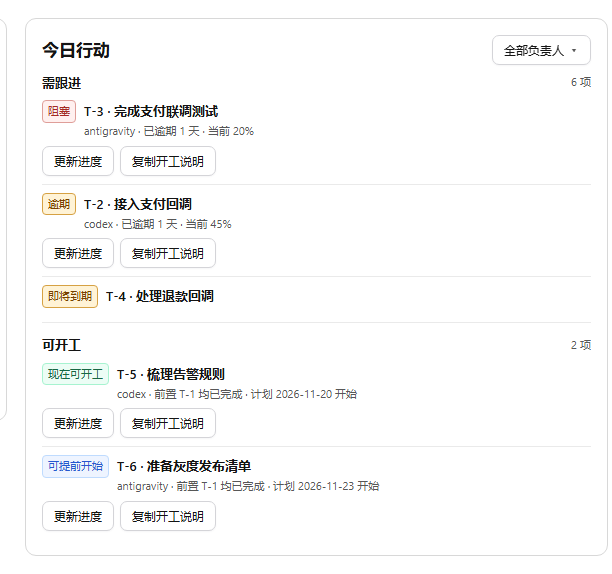
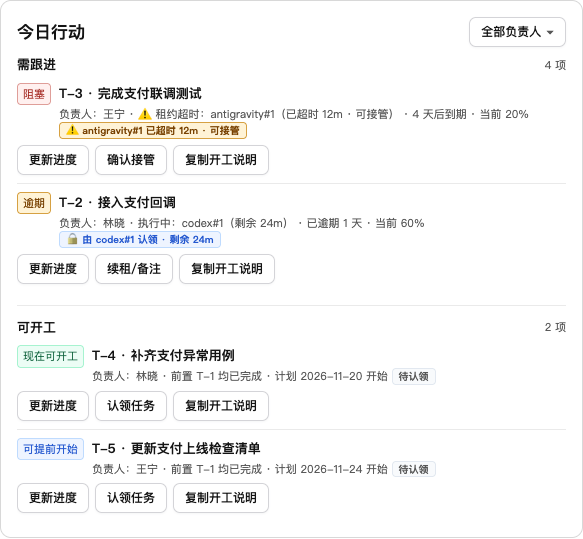
docs(manual): 更新 M9 操作手册和协作截图 (T-70 T-71)

diff --git a/docs/USER_MANUAL.md b/docs/USER_MANUAL.md
@@ -1,16 +1,18 @@
 # 任务时间线驾驶舱操作手册
 
-这份手册适用于负责查看进度、更新任务、调整排期或汇报项目的同事。手册对应 **2026-11-20** 的驾驶舱版本，截图使用示例项目。实际名称、统计日和任务数据以你打开的项目为准。
+这份手册适用于负责查看进度、认领任务、调整排期或汇报项目的同事。更新于 **2026-11-22**，对应 `dev` 的 M9 任务认领与多智能体协作版本（`0493355`）。截图使用示例项目，实际名称、统计日和任务数据以你打开的项目为准。
 
 | 你要做什么 | 从哪里开始 |
 | --- | --- |
 | 第一次启动、加载或添加项目 | [1. 启动与添加项目](#1-启动与添加项目) |
-| 看今天该处理什么、更新进度、把任务交给智能体 | [今日行动](#从项目总览开始今日行动) |
+| 看今天该处理什么、更新进度 | [今日行动](#从项目总览开始今日行动) |
+| 认领任务、把开工说明交给智能体、续租或接管 | [认领和交接任务](#认领和交接任务) |
 | 查找任务、放大甘特图、查看任务详情 | [2. 查看和跟进任务](#2-查看和跟进任务) |
 | 看交付进度、风险和人员负载 | [3. 跟踪里程碑与风险](#3-跟踪里程碑与风险) |
 | 新建、拆分、拖动改期或演练延期 | [4. 调整排期与模拟延期](#4-调整排期与模拟延期) |
 | 回看历史、对比快照、导出周报 | [5. 回看历史与分享进度](#5-回看历史与分享进度) |
 | 看多个项目、配置日历或外部同步 | [6. 跨项目总览](#6-跨项目总览) · [7. 工作日历与工时](#7-工作日历与工时) · [8. Git 与外部协作](#8-git-与外部协作) |
+| 看谁在执行、维护负责人和智能体名录 | [查看在岗动态和维护名录](#查看在岗动态和维护名录) |
 | 在 Codex 或 Antigravity 中查询计划、写回进度 | [接入智能体 MCP 工具](#接入智能体-mcp-工具) |
 | 排查故障或查找命令 | [9. 常见问题与命令](#9-常见问题与命令) |
 
@@ -19,7 +21,7 @@
 ### 启动驾驶舱
 
 1. 确认本机能运行 Node.js 和 npm。本项目没有额外的运行依赖，无需先执行 `npm install`。要使用 Git 同步或历史回放，还需要安装 Git。
-2. 在项目根目录打开终端，运行：
+2. 在项目根目录打开终端，运行以下命令。
 
    ```sh
    npm start
@@ -28,7 +30,7 @@
 3. 在浏览器打开 [http://localhost:5173](http://localhost:5173)。以终端实际显示的地址为准，不要直接双击打开 `web/index.html`。
 4. 打开后先核对左侧「当前项目」和顶部「统计日」，再看项目总览。调整统计日可以用当前计划数据重新计算某天的进度、逾期和预测，**不会切换到那天的历史版本**；要回看历史，用「时间机器」。看完模拟日期可点「重置」，再继续记录实际进度。
 
-如果默认端口被占用，Windows PowerShell 可用下面的命令改用 5196；如果 PowerShell 阻止运行 `npm.ps1`，可改用 `npm.cmd start`。
+如果默认端口被占用，macOS 或 Linux 可运行 `PORT=5196 npm start`。Windows PowerShell 可用下面的命令改用 5196。
 
 ```powershell
 $env:PORT = '5196'
@@ -56,14 +58,29 @@ npm.cmd start
 
 ### 从项目总览开始今日行动
 
-1. 打开「项目总览」，找到「今日行动」。按负责人筛选，所选负责人同时应用于「需跟进」和「可开工」。
+1. 打开「项目总览」，找到「今日行动」。「负责人」按计划归属筛选，同时应用于「需跟进」和「可开工」。要按实际执行人看手头任务，打开「负载与工时」的在岗列表。
 2. 「需跟进」依次列出阻塞、逾期和七天内到期的未完成任务。「可开工」只列出尚未开始、且全部前置已完成的任务，无前置依赖也可入选。计划开工日已到时显示「现在可开工」，计划开工日尚未到时显示「可提前开始」。
 3. 点任务标题可在时间线定位。点「更新进度」可直接保存状态和进度，保存后会重新计算下游任务是否可开工。如果弹窗提示计划已变化，关闭后重新打开任务，核对最新状态再保存。
-4. 点「复制开工说明」，先预览，再点「复制说明」。说明包含项目名、任务标题、负责人、计划日期、当前进度、前置任务和计划正文中的验收要求。没有验收条目时显示「未填写」。复制后可粘贴给 Codex 或 Antigravity，任务仍保留当前状态。
+4. 看任务旁的「待认领」、持锁剩余时间或「已超时」标记，再决定直接认领、联系执行人或确认接管。已有认领的任务仍可能出现在「可开工」，因为开工条件按任务状态与前置依赖计算。
 
-![今日行动同时显示需跟进任务、可开工任务和负责人筛选](images/user-manual/20-today-actions.png)
+![今日行动显示需跟进任务、可开工任务、认领状态和负责人筛选](images/user-manual/20-today-actions.png)
 
-![开工说明可先预览再复制，包含任务与前置任务状态](images/user-manual/21-task-handoff.png)
+### 认领和交接任务
+
+1. 先核对**计划负责人**和**执行人**。任务里的负责人（`owner`）表示计划归属，当前认领的执行人（`actor`）负责这一轮执行。例如计划负责人是林晓，实际执行人可以是 `codex#1`。同时运行多个智能体会话时，为每个实例使用独立的执行人标识。
+2. 自己开工时，在「今日行动」或时间线下方的任务详情点「认领任务」，填写执行人标识、类型和租约时长，再点「确认」。默认时长为 AI 智能体 **30 分钟**、人类负责人 **480 分钟**，可按名录设置或本次输入调整。服务端接受的范围分别是 **5–240 分钟**和 **5–1440 分钟**。
+3. 交给协作者时点「复制开工说明」。说明包含任务、计划日期、进度、前置任务、验收要求和当前认领信息。验收要求取自计划正文的「任务 | 验收要求」或「任务 | 验收标准」表格，任务编号单独填在第一列。选「仅复制说明（不改状态）」可以只分享上下文，任务与认领保持原样。选「认领并复制说明」时，先填**接下来实际执行的标识**，再把生成的说明粘贴给对应的协作者或智能体。若提示认领成功但剪贴板访问失败，从预览框手动复制即可。
+4. 默认认领只占用任务，进度保留原值。要同时开工，勾选「认领时同步将未开始任务设为『进行中 (10%)』」。如果提示「已认领，未更新为进行中」，刷新任务后用当前认领更新进度。成功认领后，可在任务详情核对执行人、到期时间和租约代次。
+
+![开工说明可预览，并可选择仅复制或认领后复制](images/user-manual/21-task-handoff.png)
+
+| 执行到哪一步 | 怎么操作 |
+| --- | --- |
+| 还要继续做 | 在任务详情点「发送心跳/备注」，或在「今日行动」「负载与工时」点「续租/备注」。核对执行人，填写时长和进展，确认后从本次心跳重新计算到期时间。 |
+| 暂停或主动交回 | 在任务详情点「释放认领锁」，或在在岗列表点「释放」。如需记录进度，先保存再释放。释放后其他人可认领。 |
+| 已做完 | 将状态保存为「已完成」，进度为 100%。驾驶舱会释放该任务的认领。 |
+| 租约已超时 | 先与原执行人核对进展。原执行人可在接管前续租；换人时点「确认接管」，填写新执行人，勾选确认后提交。接管会生成新租约代次，旧代次提交的操作会被拒绝。 |
+| 活跃租约需要人工干预 | 在任务详情或在岗列表使用「强制接管」或「强制解锁」，填写至少两个字的原因。接管将执行权交给指定标识，解锁后任务可重新认领。操作会记入审计。 |
 
 ### 搜索、缩放和全屏
 
@@ -81,6 +98,7 @@ npm.cmd start
 | 白底边框条／彩色实际条 | 白底边框条是计划区间；实际条表示执行区间，深色部分体现完成进度。 |
 | 灰色虚线条／预计延期虚线框 | 叠加基线后，灰色虚线条是历史排期；任务计划条末端的延期框表示预计延长的部分。 |
 | 里程碑虚线／「今天」蓝线 | 分别定位计划交付日和当前统计日。任务前的 ★ 标记关键路径；连线显示依赖。 |
+| 任务名称旁的锁／「超时」徽标 | 锁表示当前有活跃认领，「超时」表示该租约已过期。点任务行可查看执行人、到期时间和认领操作。 |
 
 筛选只改变甘特图和日常跟进列表的可见范围，依赖线只在两端任务可见时画出。项目总览、里程碑总体进度、燃尽图和导出仍按各自的完整范围统计。
 
@@ -88,13 +106,13 @@ npm.cmd start
 
 1. 在筛选栏点「查看日常跟进 ↓」。列表按**阻塞、逾期、七天内到期**的顺序显示；已完成任务不列入，同一任务只出现一次。只想看自己的待跟进事项，可先在「负责人」选择自己的名字。
 2. 点一项，例如图中的 `T-3 完成支付联调测试`。驾驶舱会展开所在里程碑，在甘特图中定位并高亮任务。
-3. 确认顶部未开启「规划模式」，在图下点「编辑任务」。选择「未开始 / 进行中 / 阻塞 / 已完成」，再填 0–100 的进度。设为「未开始」会归零并清除实际日期；设为「已完成」会锁定 100%，补记实际日期。
+3. 确认顶部未开启「规划模式」，在图下点「编辑任务」。选择「未开始 / 进行中 / 阻塞 / 已完成」，再填 0–100 的进度。「未开始」会归零并清除实际日期，「已完成」会锁定 100% 并补记实际日期。任务有活跃认领时，核对「执行人标识」与当前持有人一致。代领的任务仍按计划负责人统计。
 4. 点「保存」，核对任务行中的状态和进度是否更新。保存写回当前项目的 `plan/plan.md`；遇到计划已变化提示时，关闭弹窗并重新打开任务，核对最新值后再改。
 5. 要发给协作者定位，点任务详情中的「复制任务链接」。链接指向特定项目和任务，只在能访问同一个本地驾驶舱的环境中有效。要给无法访问驾驶舱的人查看，使用[导出离线网页](#5-回看历史与分享进度)。
 
 ![日常跟进列表：阻塞、逾期和即将到期任务按顺序排列](images/user-manual/05-follow-up.png)
 
-![任务编辑弹窗：示例任务处于阻塞状态，进度为 20%](images/user-manual/06-edit-task.png)
+![任务编辑弹窗显示进度和当前持有认领的执行人](images/user-manual/06-edit-task.png)
 
 ## 3. 跟踪里程碑与风险
 
@@ -113,7 +131,7 @@ npm.cmd start
 
 | 要改什么 | 操作与保存前检查 |
 | --- | --- |
-| 新建任务或里程碑 | 点「+ 新建任务」或「+ 新建里程碑」。任务填写标题、负责人、所属阶段和起止日；前置依赖填任务 ID（例如 `T-2, T-4`），没有就留空。填写变更原因，检查后保存。 |
+| 新建任务或里程碑 | 点「+ 新建任务」或「+ 新建里程碑」。任务填写标题、负责人、所属阶段和起止日。负责人可从名录选择，也可直接输入新的标识。前置依赖填任务 ID（例如 `T-2, T-4`），没有就留空。填写变更原因，检查后保存。 |
 | 改期 | 拖动任务的计划条中间可整体平移，拖左右手柄可调整起止。松手后会弹出日期变更预览，例如「调整 T-4 的计划日期」。核对起止日和冲突；确认要移动下游时再选「同时顺延受影响的任务」，填原因后点「保存变更」。 |
 | 新增或解除依赖 | 从前置任务右侧锚点拖到下游任务行。解除时点现有依赖线。两种操作都要看预览再确认；循环依赖和新引入的排期冲突不能直接保存。 |
 | 拆分任务 | 选中任务，打开「规划/拆分任务」，核对当前字段后点「拆分为两个子任务」。原任务作为上段，系统生成「下」段并把原下游任务改为依赖下段。此按钮会执行写入，先填写变更原因并核对预期。 |
@@ -122,7 +140,9 @@ npm.cmd start
 
 ![拖动 T-4 后的排期预览：核对新起止日期和变更原因，再决定是否保存](images/user-manual/18-plan-change.png)
 
-完成后检查甘特图的新日期和依赖，必要时核对 `plan/plan.md` 的「计划说明」。多人同时改动时，以最新计划为准，重新打开弹窗再确认。需要试验而不保存时，改用以下演练。
+如果受改动的任务有活跃认领，先协调执行人释放租约再保存。需要立即调整时，在预览或编辑弹窗勾选「强制覆盖」活跃认领锁，核对受影响任务并填写变更原因。保存会解除受影响任务的认领并留下审计记录。
+
+完成后检查甘特图的新日期和依赖，必要时核对 `plan/plan.md` 的「计划说明」。多人同时改动时，以最新计划为准，重新打开弹窗再确认。
 
 ### 只演练某项任务延后
 
@@ -137,7 +157,7 @@ npm.cmd start
 ### Git 历史回放与浏览器快照
 
 1. 当前项目需有提交过 `plan/plan.md` 的 Git 历史。在时间线顶部点「时间机器」，拖动滑块选择提交，或点「▶ 播放」按 **1x / 2x** 连续回放。控制栏显示当前快照的提交日期、说明和当时进度。拖动滑块会暂停自动播放。
-2. 回放是只读的。任务编辑、规划模式和同步 Git 不可用。想对比起初排期，在工具栏勾选「叠加基线幽灵条」，留意虚线条和 `+2天` 等差值。点「退出回放」返回当前计划。
+2. 回放是只读的。任务编辑、规划模式、同步 Git 和认领操作不可用，实时认领状态会隐藏。想对比起初排期，在工具栏勾选「叠加基线幽灵条」，留意虚线条和 `+2天` 等差值。点「退出回放」返回当前计划。
 3. 要比较手工留存的计划，先退出回放，再进入「报告与集成」，在「基线与历史快照」里点「保存当前快照」。改动计划后在下拉框选旧快照，点「对比」查看新增、移除或字段变更。手工快照按项目保存在当前浏览器中。
 
 ![时间机器：历史提交、当时进度和只读提示](images/user-manual/10-time-machine.png)
@@ -180,11 +200,20 @@ npm.cmd start
 
 ![工作日历与工时：标准工时、节假日、补班日和逐任务核算表](images/user-manual/13-capacity.png)
 
+### 查看在岗动态和维护名录
+
+1. 在「负载与工时」打开「在岗执行动态与负责人名录」。先看活跃认领、超时可接管和孤儿租约的数量，再看任务卡片上的执行人、剩余时间和最新进展。点任务标题可回到甘特图。租约按服务器当前时间计时，页面显示近似值，点「刷新动态」可重新读取。
+2. 「多负责人与智能体协同概览」按计划负责人统计「未完计划归属」和「待认领可开工」，按实际执行人统计「当前持锁执行」。需要追查交接时，展开「近期协同事件与审计流」，在「常规协同」看认领、释放与完工，在「接管与强制解锁审计」看接管、强制操作与原因。
+3. 点「管理负责人名录」，可修改显示名称、分类和默认租约时长。点「+ 新增负责人 / 智能体」时填写唯一标识，例如 `codex#1`，再点「保存名录」。名录也会根据同一项目计划中的负责人及现有认领的执行人补充选项。要变更任务的计划归属，进入规划模式编辑任务的「负责人」字段。
+4. 发现「孤儿租约」时，先核对相应任务确实已移除，再点「一键清理孤儿租约」，也可以在保存名录时勾选清理。默认情况下，认领、名录和事件保存在当前项目的 `plan/claims.json`，由指向同一项目计划文件的网页与 MCP 共用。Git 忽略该文件，离线网页导出也会排除这些数据。
+
+![在岗执行动态显示持锁任务、超时任务、负责人统计与协同事件入口](images/user-manual/22-claims-live.png)
+
 ## 8. Git 与外部协作
 
 ### 用 Git 提交推进任务
 
-手动方式：切到正确的项目，点顶栏「同步 Git」；也可以在仓库根目录运行 `npm run plan:sync`。都会扫描带任务编号的提交并**可能写回计划**。同步后看驾驶舱的进度，并用 `git diff -- plan/plan.md` 核对改动。
+手动方式：切到正确的项目，点顶栏「同步 Git」；也可以在仓库根目录运行 `npm run plan:sync`。都会扫描带任务编号的提交并**可能写回计划**。同步会跳过被活跃租约锁定的任务。同步后查看结果，并用 `git diff -- plan/plan.md` 核对改动。持有人可直接更新进度，或先释放认领再重新同步。
 
 如果团队希望提交时自动更新，先确认仓库的 Git 钩子配置，再按团队约定运行 `git config core.hooksPath .githooks`。启用后提交前会校验计划，提交消息也可以触发相应更新。
 
@@ -207,7 +236,7 @@ npm.cmd start
 ### 同步 GitHub / GitLab Issue
 
 1. 进入「报告与集成」，在「平台集成」点「配置平台」。选择平台，填写正确的仓库（GitHub 如 `owner/repo`，GitLab 可使用项目 ID），核对 API 地址和具备相应 Issue 权限的 Token。勾选「启用此项目的集成」，点「保存平台配置」。修改仓库或 API 地址会清除旧绑定，启用新目标要重新输入 Token。
-2. **从远端拉取**：点「Issue 同步」，选任务范围，再点「预览远端拉取」。没选任务时，预览会检查全部任务。先看每项状态、进度和日期变更，以及被跳过的冲突；核对无误再点「确认写入」。计划、绑定或远端状态变化导致预览失效时，重新预览。
+2. 从远端拉取时，点「Issue 同步」，选任务范围，再点「预览远端拉取」。没选任务时，预览会检查全部任务。先看状态、进度和日期变更，以及被跳过的冲突。活跃认领会阻止对应任务的进度拉取。核对后点「确认写入」。如果预览失效，重新预览并检查认领、计划、绑定和远端状态。
 3. **向远端推送**：确认目标仓库，选择任务，再点「推送到平台」。不选择任务时，须勾选「允许全量推送」并确认。推送会创建或更新 Issue，可能发送任务标题、负责人、排期和依赖；在推送前核对仓库和内容是否适合共享。
 4. 同步后检查结果中的新建、更新和失败数量。已绑定的任务详情会显示 Issue 链接。若远端没有应用标签，先检查 Token 权限与仓库中是否有 `task-orchestration`、`milestone:…` 和 `status:…` 标签。
 
@@ -229,12 +258,22 @@ codex mcp list
 | 工具 | 可以做什么 |
 | --- | --- |
 | `plan_list_projects` | 列出已注册项目及其状态、进度、阻塞与逾期数。 |
-| `plan_get_overview` | 查看项目总览、需跟进和可开工事项，支持按任务或负责人筛选。 |
-| `plan_get_task` | 读取任务、验收要求、开工说明和写回所需的当前字段快照。 |
+| `plan_get_overview` | 查看总览、需跟进和可开工事项。传入 `unclaimedOnly: true` 可排除活跃认领，超时任务仍需确认接管。 |
+| `plan_get_task` | 读取任务、验收要求、开工说明、认领信息 `claim` 及执行字段快照 `expected`。 |
 | `plan_validate` | 校验指定项目的计划。 |
-| `plan_update_task` | 写回任务状态、进度和实际日期。遇到 409 冲突时，先重新读取任务，再核对该不该重试。 |
+| `plan_claim_task` | 用 `id`、`actor` 认领并取得 `claim.leaseId`。可传 `actorKind`、`ttlMinutes`、`note` 或 `startImmediately`。 |
+| `plan_heartbeat_task` | 用 `id`、`actor`、`leaseId` 续租，可附上 `ttlMinutes` 和 `note`。 |
+| `plan_update_task` | 用 `id`、`expected`、`status`、`progress` 写回进度，可填写实际日期。持锁执行时同时传 `actor` 和 `leaseId`。 |
+| `plan_release_task` | 用 `id`、`actor`、`leaseId` 正常释放认领。 |
 
-计划结构、依赖和计划日期由规划者在规划模式中维护。使用 MCP 写回进度前，核对项目 ID 和任务编号。
+#### 用 MCP 完成一次认领和交付
+
+1. 用 `plan_list_projects` 核对项目 ID，并在后续调用中使用同一个 `projectId`。接着用 `plan_get_task` 核对任务编号、前置状态和验收要求。
+2. 任务待认领时，调用 `plan_claim_task`。例如传入 `{"projectId":"default","id":"T-4","actor":"codex#1","actorKind":"agent","startImmediately":true}`。保留返回的完整 `claim.leaseId`。如果从网页收到已经认领的开工说明，先核对说明里的执行人和租约代次与当前任务一致，再沿用该租约。
+3. 到期前发送心跳。写回前重新调用 `plan_get_task`，把最新返回的 `expected` 原样传入 `plan_update_task`，并带上自己持有的 `actor` 和 `leaseId`。确认完成后提交 `status: "done"`、`progress: 100`，任务会自动释放。提前交回时调用 `plan_release_task`。
+4. 若确需接管超时任务，协调原执行人后，调用 `plan_claim_task` 并传入 `takeoverStale: true`、刚读到的租约代次（`expectedLeaseId`）与新执行人的标识。后续调用使用返回的新代次。遇到 `LEASE_SUPERSEDED` 时停止使用旧租约。遇到普通的 `CONFLICT` 时重新读取任务，核对字段后再提交。
+
+计划结构、依赖和计划日期由规划者在规划模式中维护。
 
 ## 9. 常见问题与命令
 
@@ -246,6 +285,10 @@ codex mcp list
 | 时间线找不到搜索或缩放控件 | 点顶部「展开筛选与工具」。在专注或全屏中，页面会定位到工具栏。 |
 | 编辑按钮消失或变灰 | 检查是否处于历史回放、跨项目总览或项目不可用。回到单项目实时视图再试。 |
 | 提示计划已变化或操作不能保存 | 重新打开任务获取最新状态；规划改期时检查日期、依赖冲突和是否填写变更原因。 |
+| 网页显示「认领状态未知」，或 MCP 工具列表缺少认领工具 | 确认网页和 MCP 都指向新版仓库。重启网页服务与 MCP 客户端，切回正确项目，再点「刷新动态」。 |
+| 提示「任务已被认领」或 `TASK_LOCKED_BY_CLAIM` | 先看当前执行人和到期时间。由持有人继续更新，或协调释放后再认领。 |
+| 提示租约已失效或被接管（`LEASE_SUPERSEDED`） | 刷新任务并核对当前持有人和租约代次。若持有人已更换，先把本地进展交接给对方。 |
+| 办公电脑与另一份代码副本的认领状态不同 | 核对两端是否指向同一个项目计划文件。认领数据保存在对应目录下，Git 拉取只会带来已提交的计划变更。 |
 | 离线导出显示找不到接口，或更新后新增接口不可用 | 停止原来的 Node 服务，在新版项目目录重新运行 `npm start`，再刷新页面。浏览器刷新不会更新仍在运行的服务。 |
 | 「浏览器全屏」无法开启 | 使用「展开时间线」即可铺满内容区；有些内嵌浏览器会禁止网页进入全屏。 |
 | 推送渠道不可用／Issue 预览无法确认 | 核对当前项目、允许接收的渠道或平台配置。Issue 若提示预览失效，从「预览远端拉取」重新开始。 |
@@ -255,5 +298,6 @@ codex mcp list
 | `npm start` | 启动驾驶舱。 |
 | `npm run plan:check` | 校验当前项目计划的字段、日期和依赖。 |
 | `npm run plan:sync` | 扫描 Git 历史并按需要同步进度，可能写计划。 |
+| `npm run mcp` | 启动标准输入输出 MCP 服务，供客户端调用。 |
 | `npm run plugin:install` | 将 Antigravity 插件安装到用户目录并打印 Codex CLI 接入命令。 |
 | `npm test` | 运行项目自动化测试。 |
